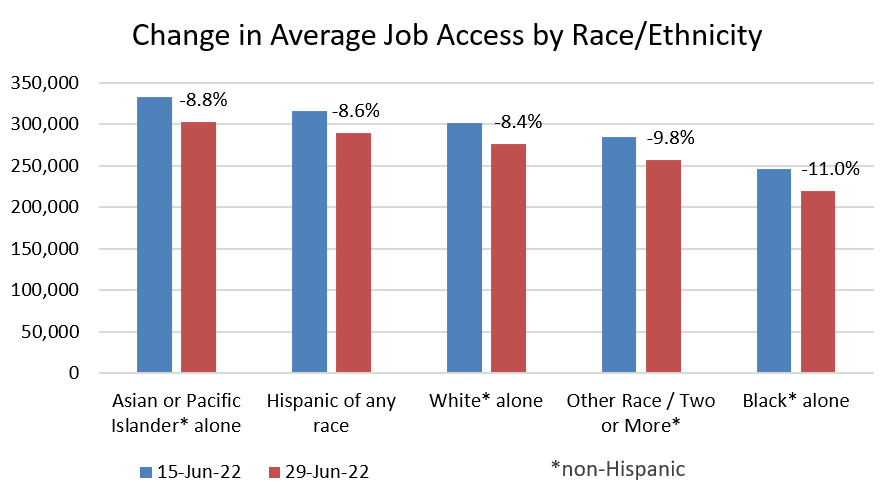
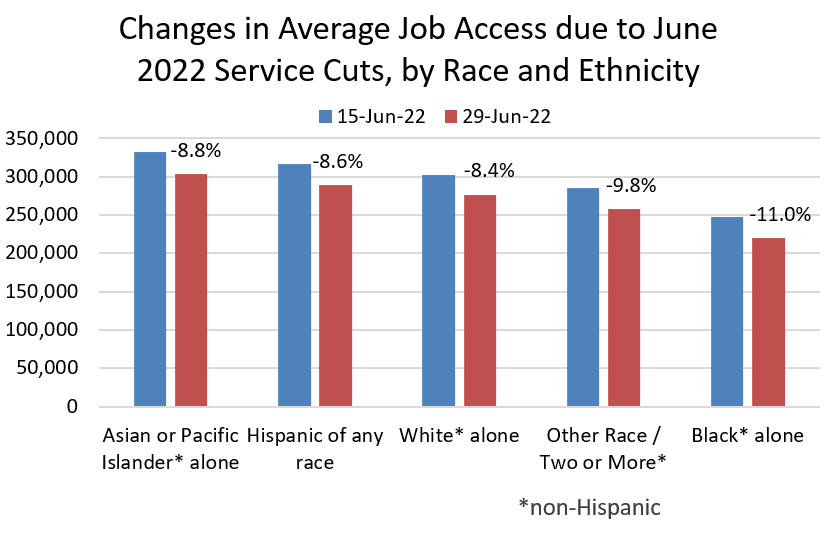
chart tweaks

diff --git a/README.md b/README.md
@@ -58,13 +58,13 @@ I compared how many jobs people could access via MBTA transit service before and
 
 Using demographic data from the decennial census, I found that non-Hispanic Black residents not only had the lowest average existing access to jobs within 30 minutes of transit + walking travel time, but also experienced the steepest declines in average job access due to the June 2022 service cuts.
 
-![Chart of Change in Average Job Access by Race/Ethnicity](docs/assets/img/access_chg_raceethn.png)
+![Chart of Change in Average Job Access by Race/Ethnicity](docs/assets/img/access_chg_raceethn_errorbars.png)
 
 #### __Key Methods__:
 origin-destination network analysis (transit + walking) at the census block level using ArcGIS Pro workflow; cumulative job access
 
 #### __Key data sources__:
-public transit schedules (GTFS), US Census demographic and jobs data, OpenStreetMap walking network data
+public transit schedules (GTFS), block-level demographic (decennial census) and jobs (LODES) data from the US Census, OpenStreetMap walking network data
 
 #### __View full project__: [Measuring the Effects of Public Transit Operations on Job Access in Boston](https://mciethan.github.io/project2.html)
 
@@ -77,12 +77,14 @@ Expanding on this line of work, I performed a more systematic investigation of t
 
 The maps below illustrate how eight consecutive MBTA service adjustments affected the numbers of jobs accessible within 60 minutes of transit + walking for census blocks in the MBTA service area. Only the December 2022 opening of the Medford branch of the Green Line Extension (GLX) and the December 2024 implementation of Phase 1 of the Bus Network Redesign (BNR) were considered "major" changes under existing policy.
 
+#### Changes in jobs reachable in 60 min. via transit per census block for 50th percentile departure times from 7:30-8:00am on Tuesdays, Dec. 2022 to Jan. 2025
+
 ![Maps of Changes in Job Access via Transit due to Quarterly MBTA Service Changes](docs/assets/img/practicum_facetmap.png)
 
 #### __Key Methods__:
 origin-destination network analysis (transit + walking) at the census block level using R scripting; cumulative job access
 
 #### __Key data sources__:
-public transit schedules, US Census demographic and jobs data, OpenStreetMap walking network data
+public transit schedules, block-level demographic (decennial census) and jobs (LODES) data from the US Census, OpenStreetMap walking network data
 
 #### __View full project__: [Measuring the Destination Access Impacts of Public Transit Service Adjustments](https://mciethan.github.io/project3.html)
